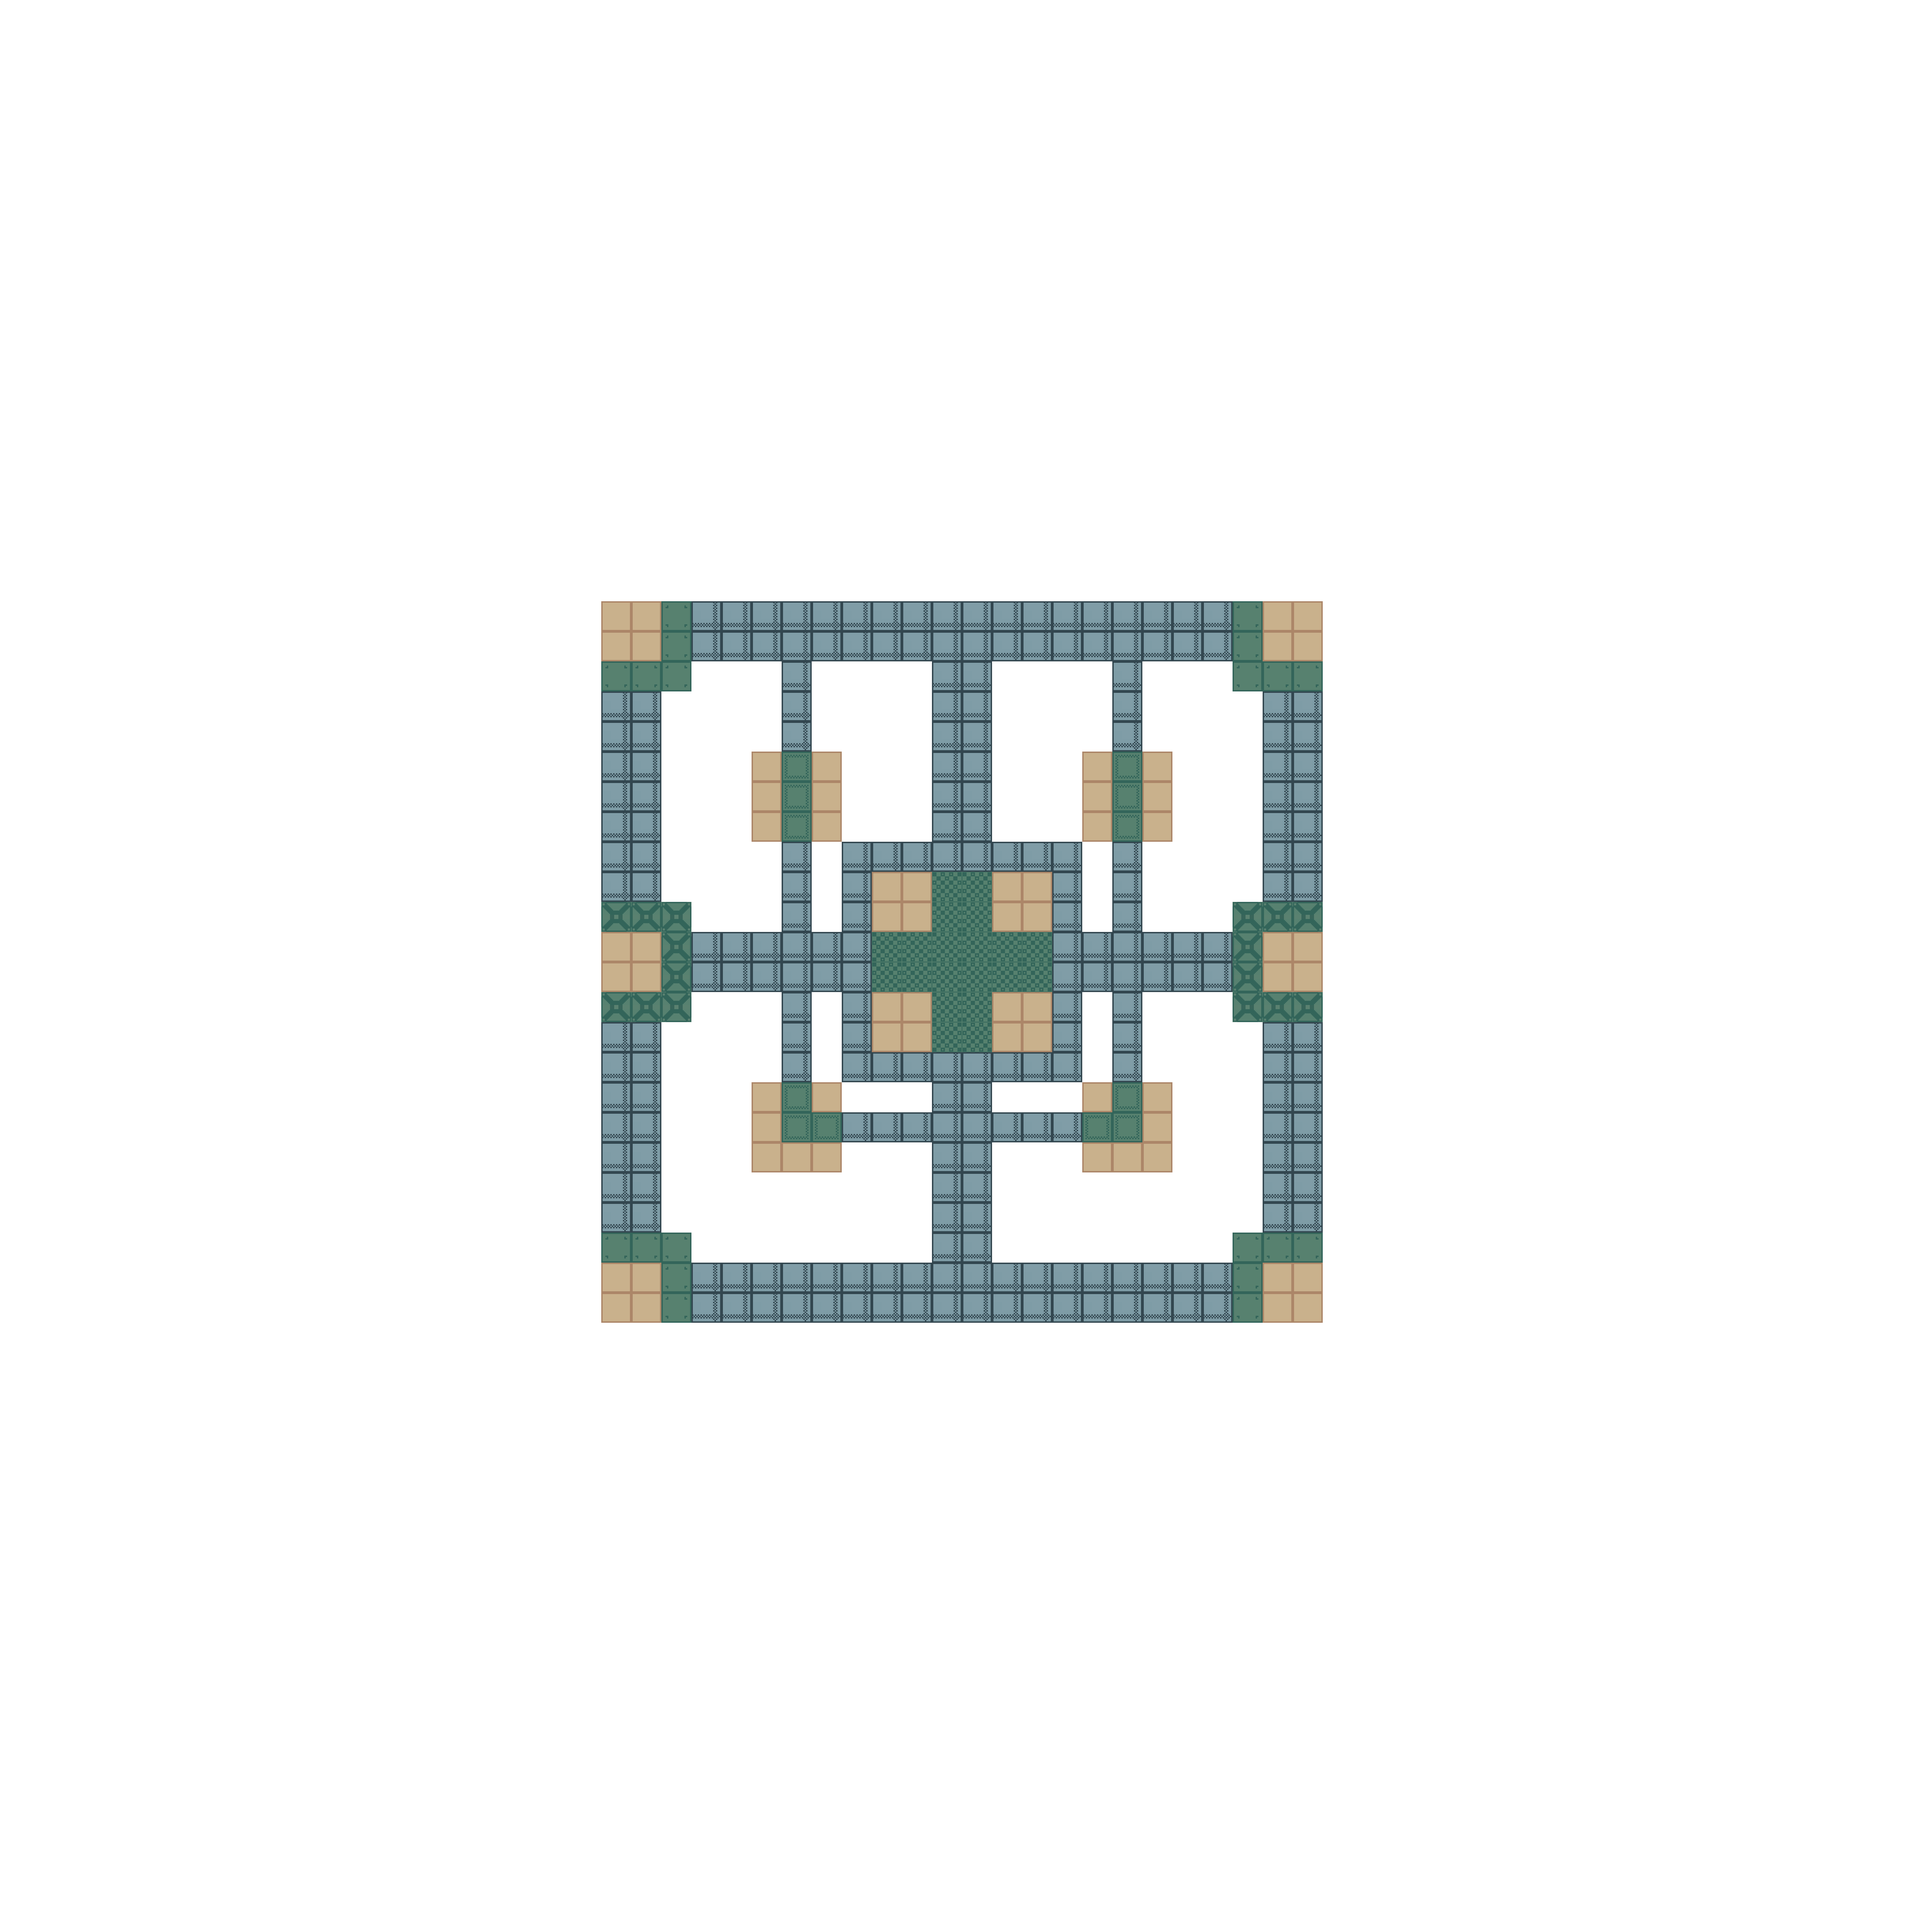
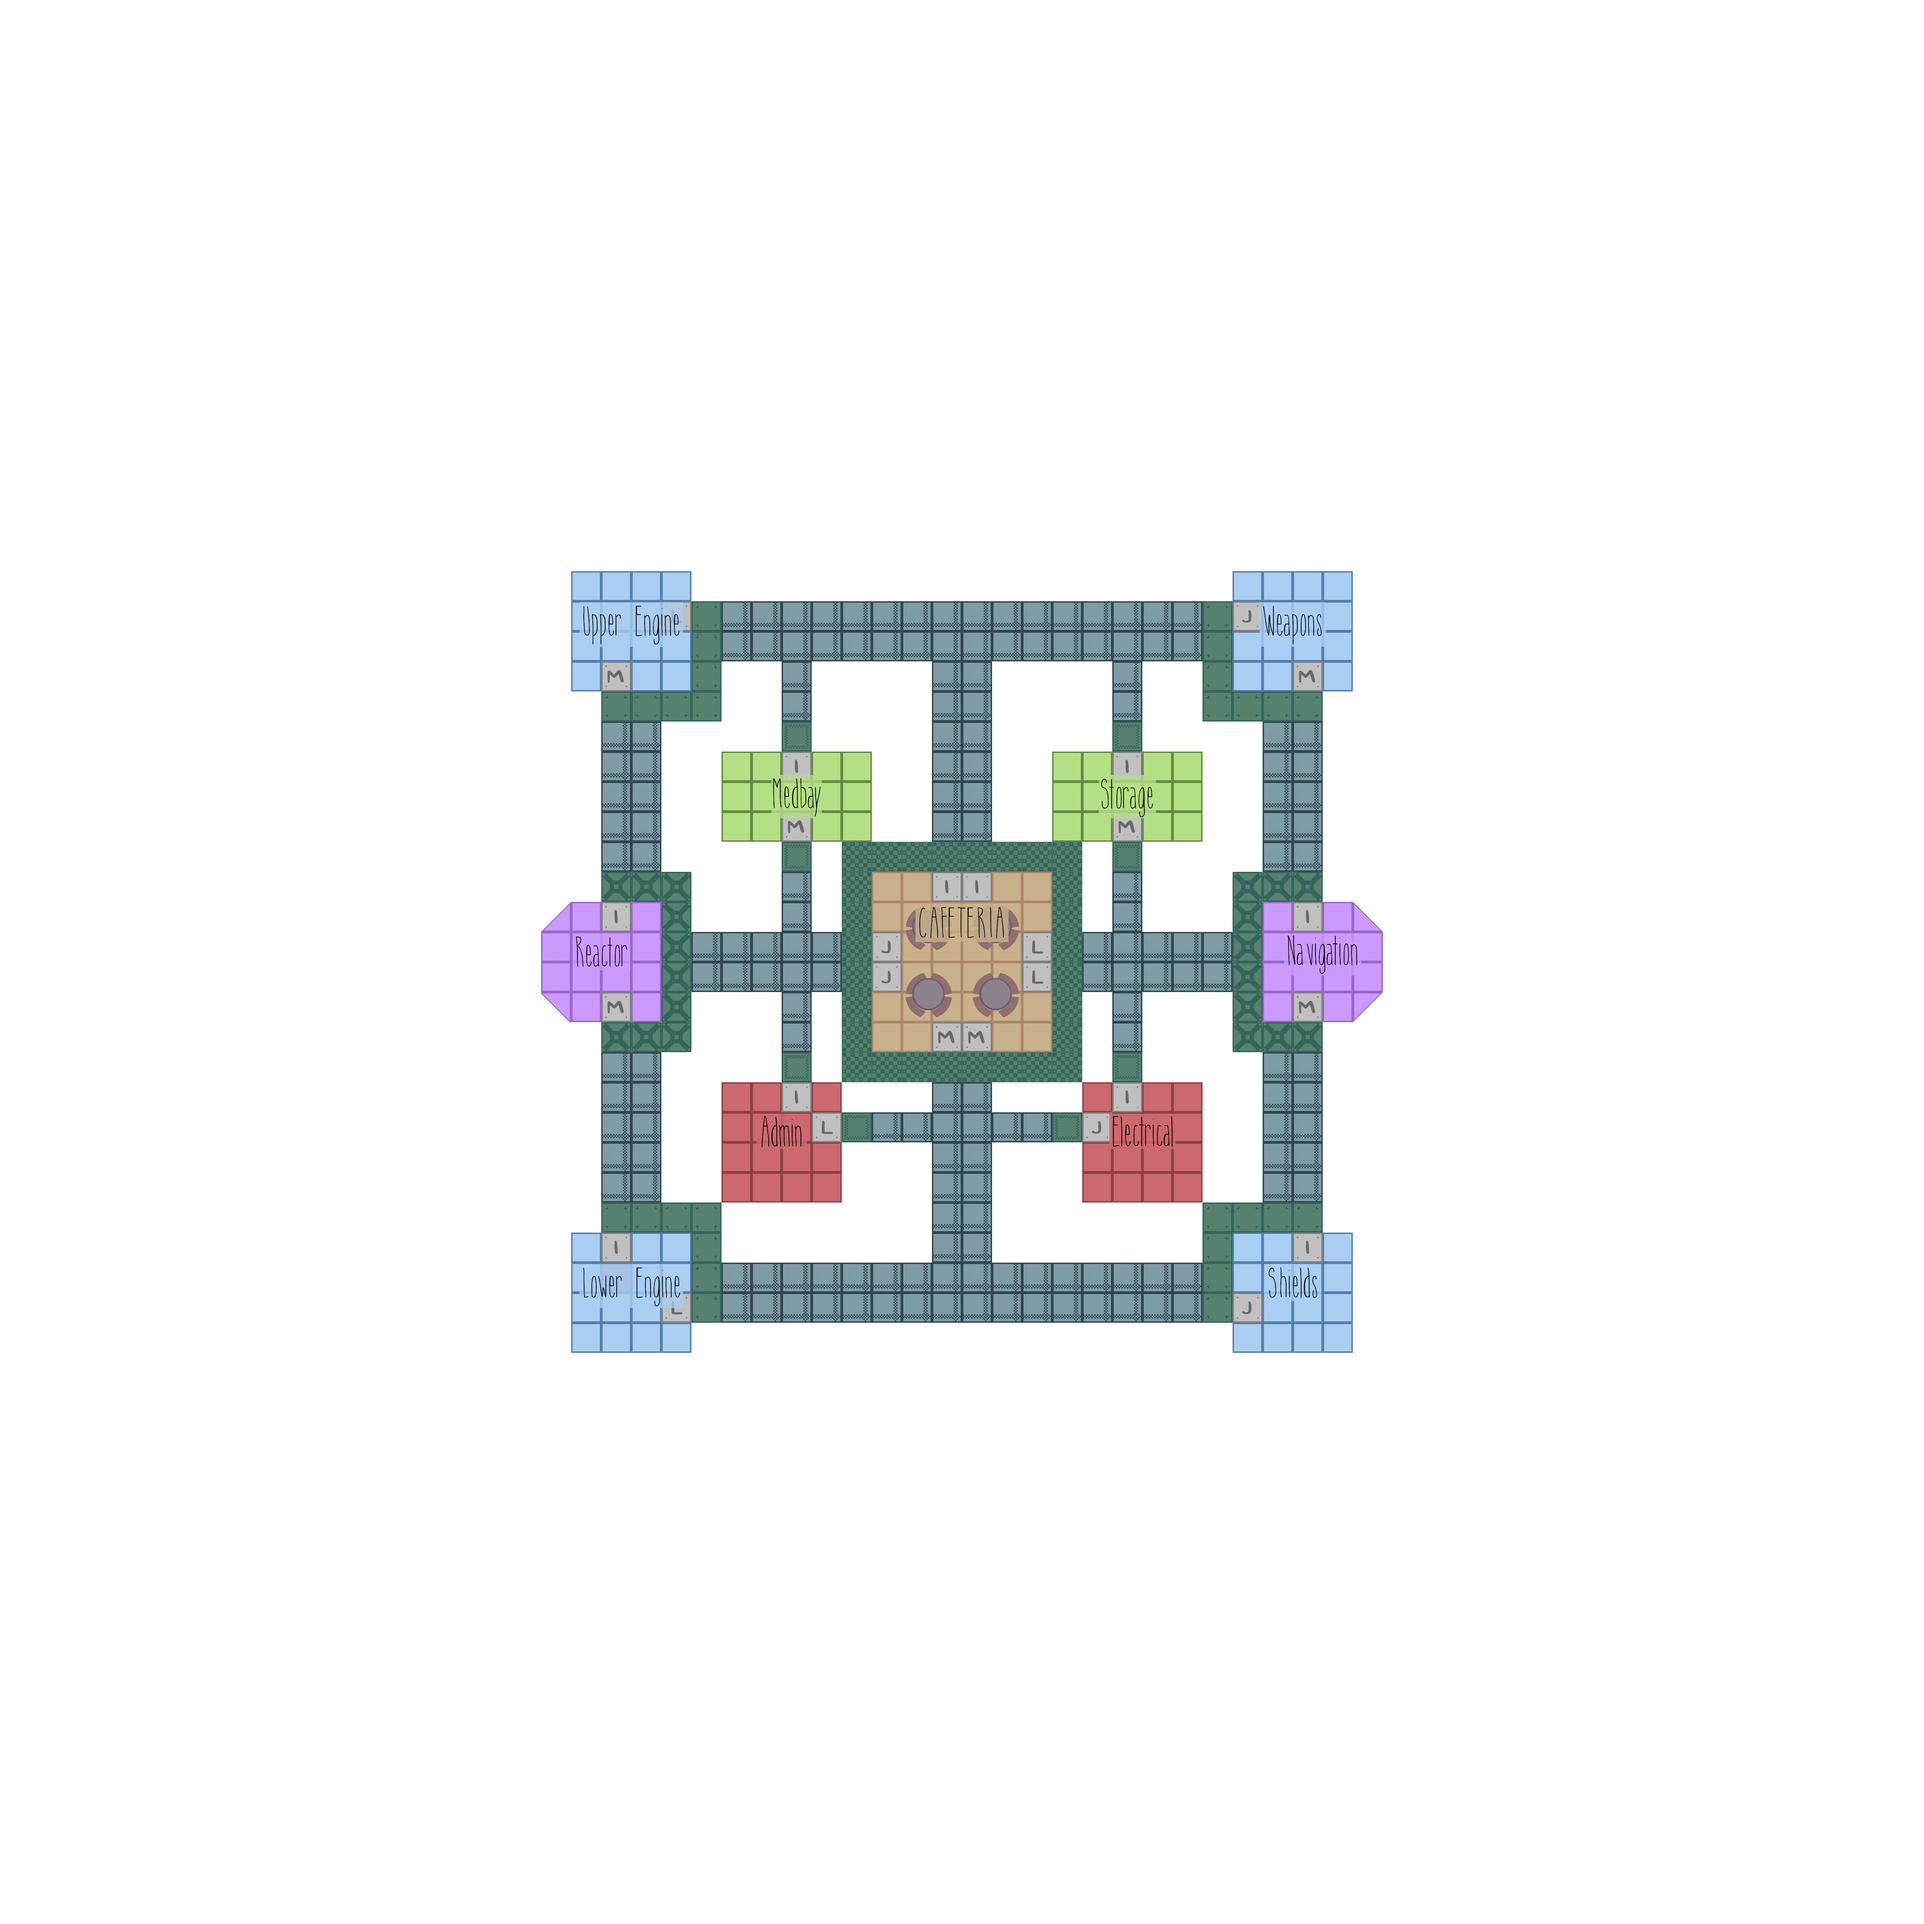
JEY JO

diff --git a/src/impostorLib.c b/src/impostorLib.c
@@ -37,6 +37,8 @@ void playImpostor(GameState game){
             lose = LoadTexture("");
             btnWidth = 460;
             btnHeight = 90;
+            btnInitialPosition = 400;
+            btnRowDistance = 120;
             break;
         case 2:     // Monitor lap
             logo = LoadTexture("./res/animations/1366x768/Logo.png");
@@ -787,7 +789,7 @@ void initImpostor(GameState game){
 }
 GameState newImpostorGame(){
     GameState game = malloc(sizeof(struct ImpostorGame));
-    game->resolution = 4;
+    game->resolution = 1;
     switch(game->resolution){
         case 1:     // Monitor normal
             game->screenWidth = 1920;
@@ -837,7 +839,7 @@ GameState newImpostorGame(){
 Board NewBoard(GameState game){
     Board board = malloc(sizeof(struct BoardGame));
     board->mapBackground = LoadTexture("./res/assets/map/Space.png");
-    board->map = LoadTexture("./res/assets/map/Sketch.png");
+    board->map = LoadTexture("./res/assets/map/Board.png");
     float initialX = 1723.0f, intialY = 1699.0f;
     for(int x=0;x<24;x++){
         for(int y=0;y<24;y++){

diff --git a/src/mechanicsLib.c b/src/mechanicsLib.c
@@ -213,11 +213,11 @@ void initializeCards (GameState game){
     shuffleCards(AllCards, ShuffledCards);
     dealCards(game, ShuffledCards);
 
-    free(deckPlaces);
-    free(deckCharacters);
-    free(deckDeaths);
-    free(AllCards);
-    free(ShuffledCards);
+    //free(deckPlaces);
+    //free(deckCharacters);
+    //free(deckDeaths);
+    //free(AllCards);
+    //free(ShuffledCards);
 }
 
 /*
